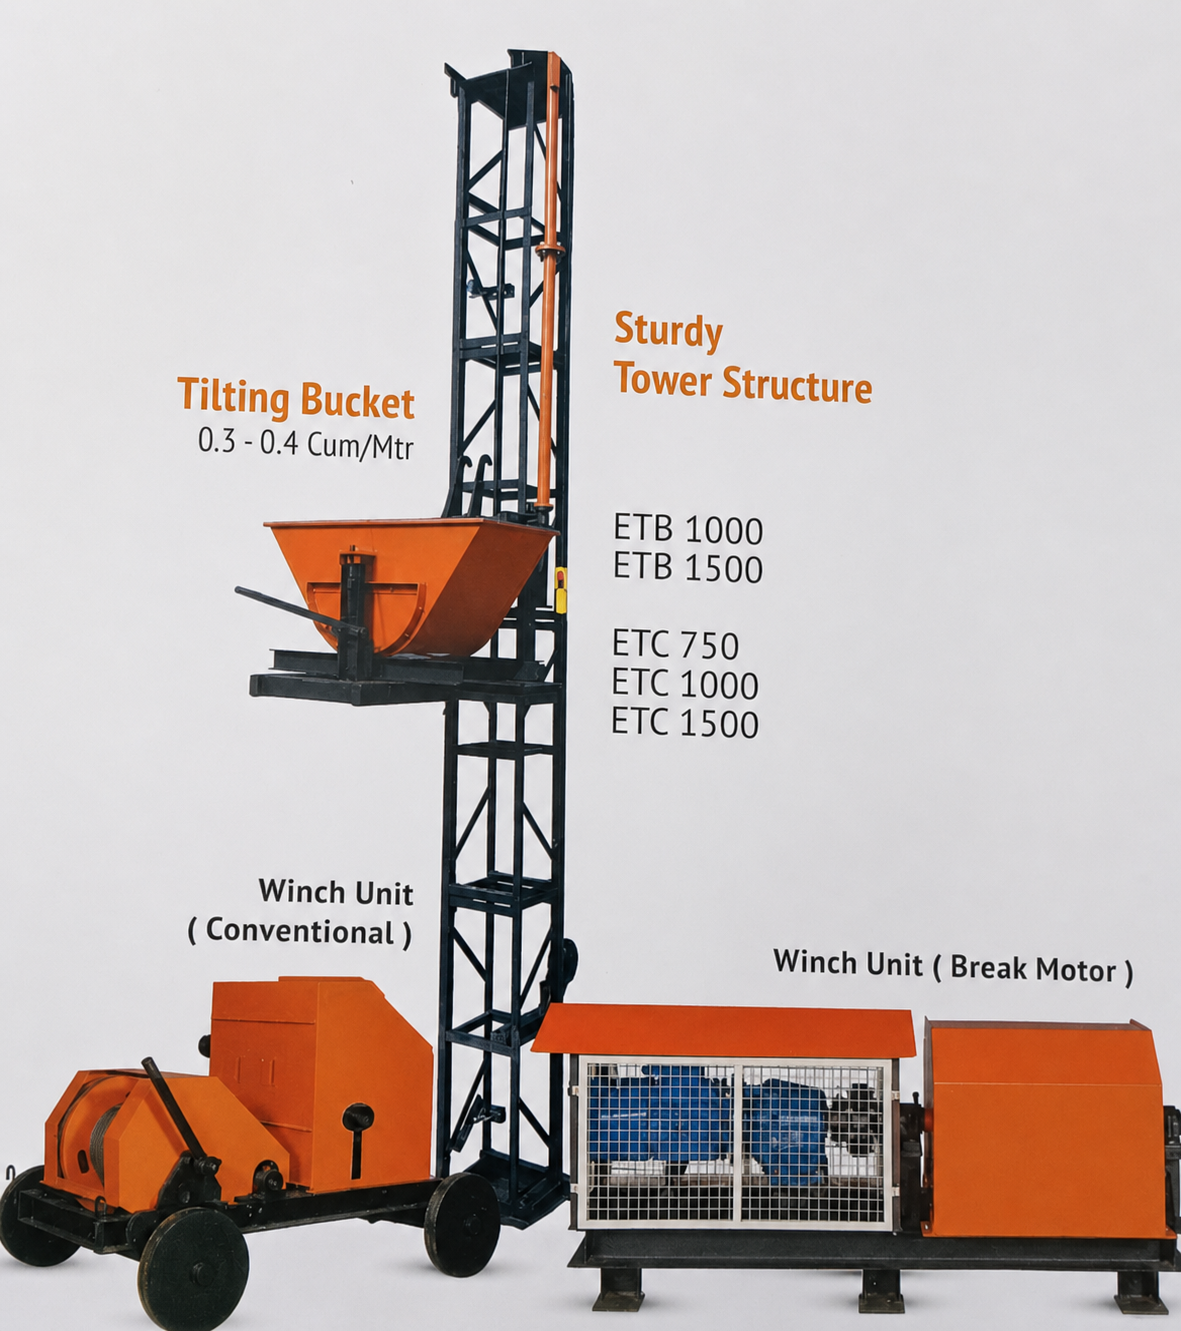
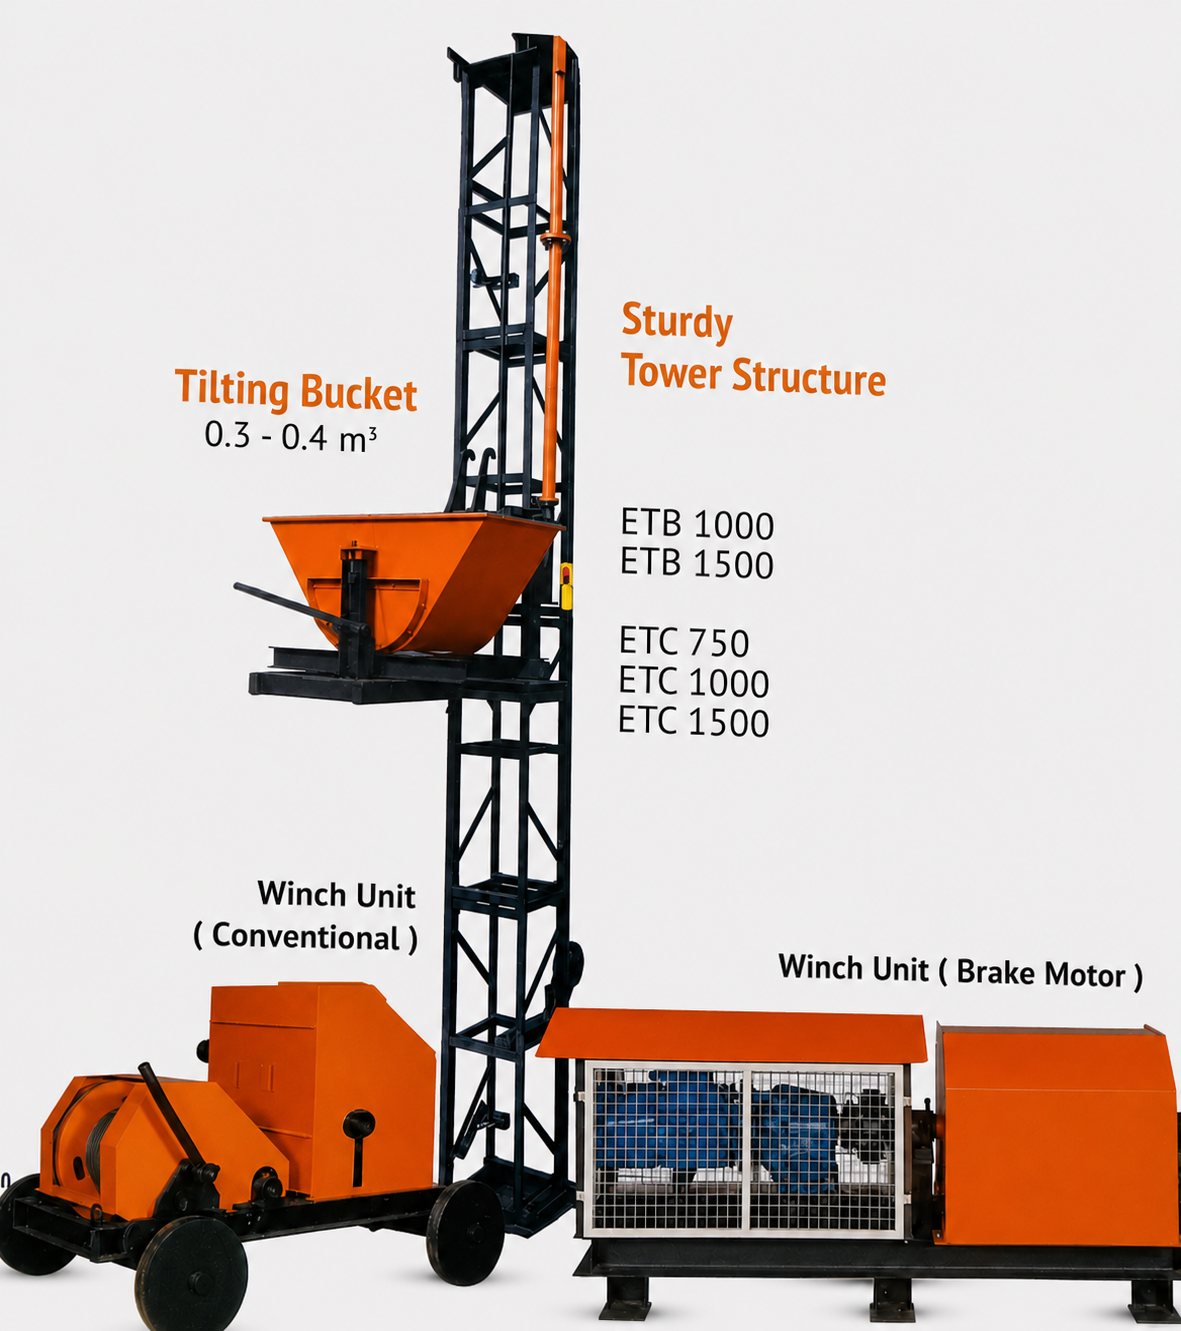
Made requested changes

diff --git a/index.html b/index.html
@@ -54,8 +54,8 @@
 			<h1>JAYALAXMI ENTERPRISES</h1>
 			<p class="hero-sub">CONSTRUCTION EQUIPMENT SALES, RENTAL &amp; SERVICE</p>
 			<p class="hero-tagline">
-				We supply, rent and service heavy construction machinery across
-				Hyderabad. Reliable machines. Honest pricing. On-time delivery.
+				We supply, rent, and service heavy construction machinery across
+				Hyderabad with reliable equipment, honest pricing, and on-time delivery.
 			</p>
 			<div class="hero-actions">
 				<a href="#equipment" class="btn-primary">🔧 Browse Equipment</a>
@@ -104,7 +104,7 @@
 			<div class="container">
 				<div class="about-grid">
 					<div class="about-visual">
-						<div class="about-big">5+</div>
+						<div class="about-big">8+</div>
 						<p>Years of trusted service in construction equipment</p>
 						<ul class="about-list">
 							<li>
@@ -181,32 +181,33 @@
 						<i data-lucide="truck" class="why-icon-img"></i>
 						<h3>Large Fleet</h3>
 						<p>
-							Wide range of construction equipment available for sale and on
-							rent – all maintained in ready-to-use condition.
+							Wide range of construction equipment available for sale / rent.
+							All maintained in ready-to-use condition.
 						</p>
 					</div>
 					<div class="why-card">
 						<i data-lucide="wrench" class="why-icon-img"></i>
 						<h3>Expert Service</h3>
 						<p>
-							Our in-house technicians handle maintenance and breakdown service
-							so your project never stops.
+							Our in-house technicians handle any breakdowns, ensuring seamless
+							execution of your project.
 						</p>
 					</div>
 					<div class="why-card">
 						<i data-lucide="indian-rupee" class="why-icon-img"></i>
 						<h3>Competitive Pricing</h3>
 						<p>
-							Transparent quotations with no hidden charges. Flexible rental
-							terms from daily to monthly.
+							Transparent quotations with no hidden charges. Customized pricing
+							is available to suit your specific needs, whether on a daily,
+							weekly, or monthly basis.
 						</p>
 					</div>
 					<div class="why-card">
 						<i data-lucide="map-pin" class="why-icon-img"></i>
 						<h3>Based in Hyderabad</h3>
 						<p>
-							Located at Kattedan, we serve sites across Hyderabad,
-							Secunderabad, and surrounding districts.
+							Located at Kattedan, we serve Twin cities and surrounding
+							districts.
 						</p>
 					</div>
 				</div>
@@ -219,13 +220,9 @@
 				<div class="section-header">
 					<span class="section-label">Our Equipment</span>
 					<h2 class="section-title">
-						Machinery for <span>Every Project</span>
+						Machinery for <span>Every Project / Requirement</span>
 					</h2>
 					<div class="divider"></div>
-					<p class="section-desc">
-						Click on any machine to view full specifications and send a WhatsApp
-						enquiry directly.
-					</p>
 				</div>
 				<div class="eq-grid" id="eqGrid">
 					<!-- cards injected by JS -->

diff --git a/styles.css b/styles.css
@@ -269,7 +269,7 @@ nav {
 .hero-tagline {
 	font-size: clamp(15px, 2.5vw, 20px);
 	color: rgba(255, 255, 255, 0.9);
-	max-width: 600px;
+	max-width: 650px;
 	line-height: 1.6;
 	margin-bottom: 44px;
 	position: relative;
